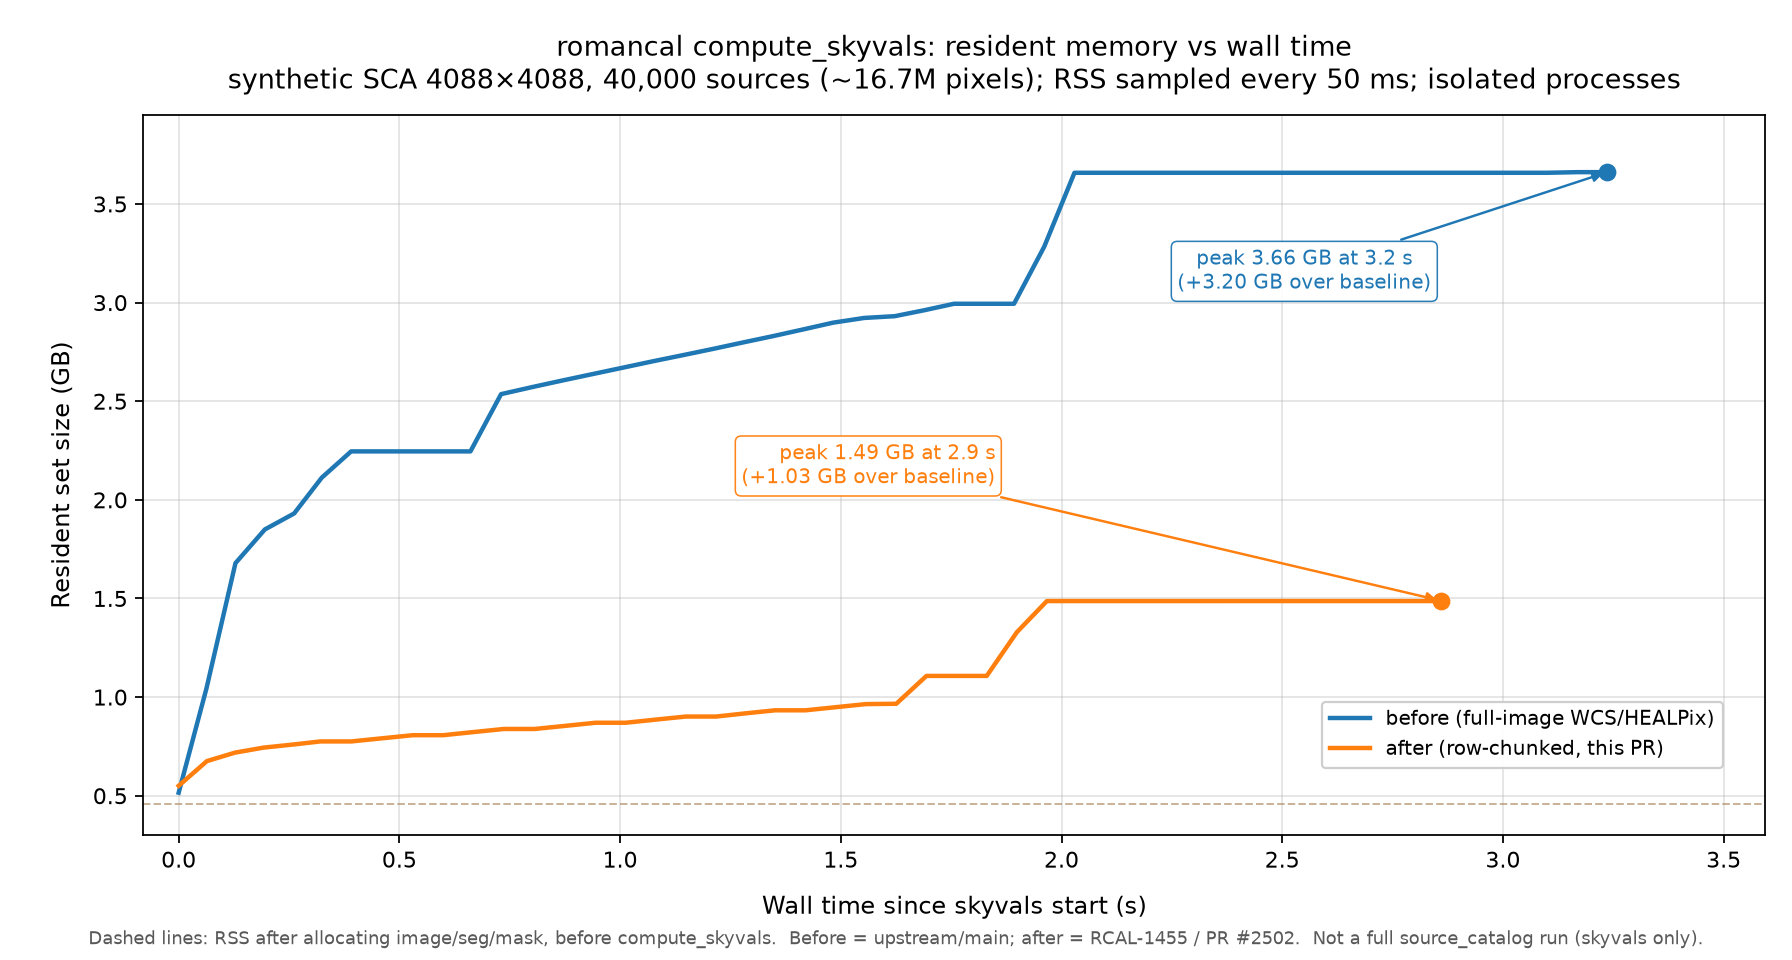
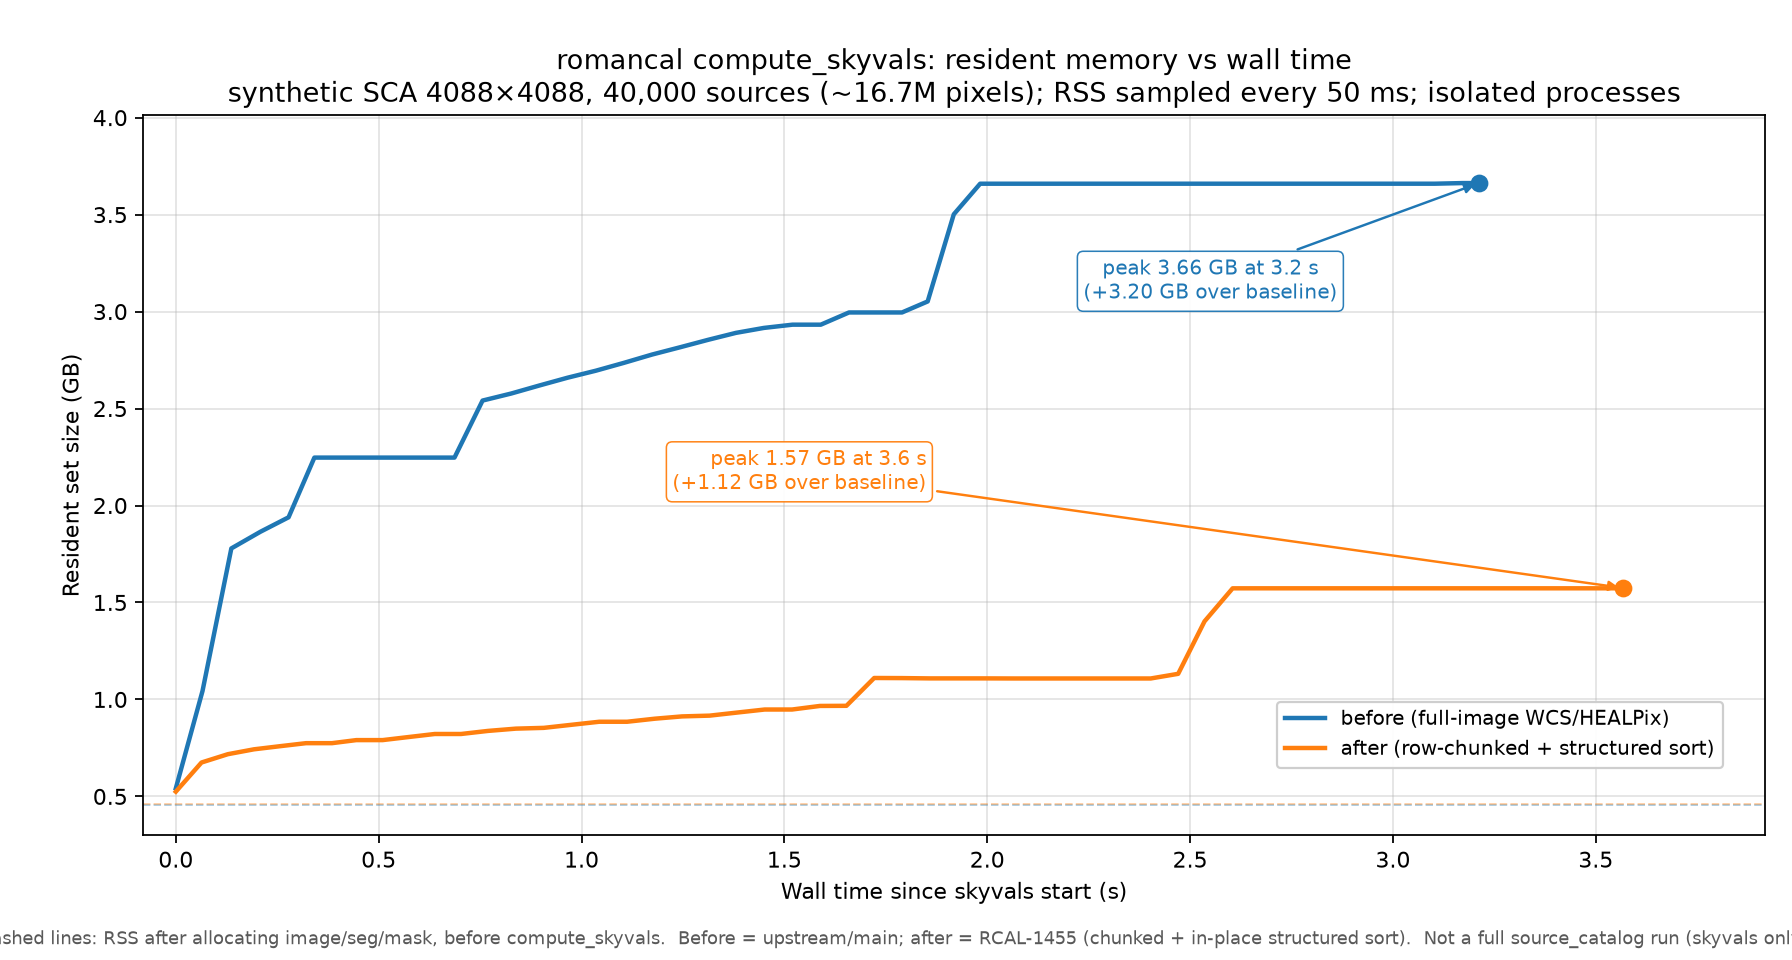
RCAL-1455: Address review on skyvals chunking API and tests
Add chunk_rows to compute_skyvals, drop monkeypatched skyvals tests in
favor of image_model fixtures, trim implementation comments, and tighten
the healpix sort/gather path. Refresh the local RSS profile figure.

diff --git a/romancal/source_catalog/tests/test_source_catalog.py b/romancal/source_catalog/tests/test_source_catalog.py
@@ -1,6 +1,5 @@
 from pathlib import Path
 from re import match
-from types import SimpleNamespace
 
 import asdf
 import astropy.units as u
@@ -750,55 +749,52 @@ def test_l2_segmentation_without_skyvals_when_disabled(image_model):
     assert "healpix11_cov" not in result_segmentation_map
 
 
-def test_skyvals_coverage_includes_source_pixels(monkeypatch):
+def test_skyvals_coverage_includes_source_pixels(image_model):
     """
-    Purpose: healpix11_cov must include source pixels, while sky medians
-    use only unsegmented sky pixels.
+    Purpose: sky medians exclude segmented source pixels, while healpix11_cov
+    still covers those pixels when they are unmasked.
     """
+    # Positive pixel_area so get_pixel_area_sr does not fall back to a WCS estimate.
+    image_model.meta.photometry.pixel_area = 1.0e-12
+    ny, nx = image_model.data.shape
+    image_model.data = np.full((ny, nx), 20.0, dtype=np.float32)
+    image_model.data[5, 5] = 999.0
+    image_model.err = np.ones((ny, nx), dtype=np.float32)
 
-    class WCS:
-        def pixel_to_world_values(self, x, y):
-            return np.asarray(x) * 180.0, np.asarray(y) * 0.0
+    segmentation = np.zeros((ny, nx), dtype=np.uint32)
+    segmentation[5, 5] = 1
+    bad_pixel_mask = np.zeros((ny, nx), dtype=bool)
 
-    input_model = SimpleNamespace(
-        data=np.array([[10.0, 20.0]], dtype=np.float32),
-        err=np.ones((1, 2), dtype=np.float32),
-        meta=SimpleNamespace(wcs=WCS()),
+    skyvals, healpix11_cov = compute_skyvals(
+        image_model, segmentation, bad_pixel_mask
     )
-    segmentation = np.array([[1, 0]], dtype=np.uint32)
-    bad_pixel_mask = np.zeros((1, 2), dtype=bool)
 
-    monkeypatch.setattr(
-        "romancal.source_catalog._skyvals.get_pixel_area_sr", lambda model: 1.0
+    assert skyvals.shape[0] > 0
+    # Source pixel value must not enter sky medians.
+    np.testing.assert_array_equal(skyvals["data"], 20.0)
+    assert healpix11_cov.shape[0] > 0
+
+    # Source-only footprint still contributes to healpix11_cov.
+    source_only_mask = np.ones((ny, nx), dtype=bool)
+    source_only_mask[5, 5] = False
+    _, healpix11_source = compute_skyvals(
+        image_model, segmentation, source_only_mask
     )
-    skyvals, healpix11_cov = compute_skyvals(input_model, segmentation, bad_pixel_mask)
-
-    assert skyvals.shape == (1,)
-    assert skyvals["data"][0] == 20.0
-    assert healpix11_cov.shape == (2,)
+    assert healpix11_source.shape[0] >= 1
+    assert np.all(np.isin(healpix11_source, healpix11_cov))
 
 
-def test_skyvals_empty_when_all_pixels_masked(monkeypatch):
+def test_skyvals_empty_when_all_pixels_masked(image_model):
     """
     Purpose: fully masked inputs return empty skyvals and healpix11_cov.
     """
+    image_model.meta.photometry.pixel_area = 1.0e-12
+    bad_pixel_mask = np.ones(image_model.data.shape, dtype=bool)
+    segmentation = np.zeros(image_model.data.shape, dtype=np.uint32)
 
-    class WCS:
-        def pixel_to_world_values(self, x, y):
-            raise AssertionError("WCS should not be called when nothing is usable")
-
-    input_model = SimpleNamespace(
-        data=np.ones((2, 2), dtype=np.float32),
-        err=np.ones((2, 2), dtype=np.float32),
-        meta=SimpleNamespace(wcs=WCS()),
+    skyvals, healpix11_cov = compute_skyvals(
+        image_model, segmentation, bad_pixel_mask
     )
-    segmentation = np.zeros((2, 2), dtype=np.uint32)
-    bad_pixel_mask = np.ones((2, 2), dtype=bool)
-
-    monkeypatch.setattr(
-        "romancal.source_catalog._skyvals.get_pixel_area_sr", lambda model: 1.0
-    )
-    skyvals, healpix11_cov = compute_skyvals(input_model, segmentation, bad_pixel_mask)
 
     assert skyvals.shape == (0,)
     assert skyvals.dtype == SKYVALS_DTYPE
@@ -806,51 +802,47 @@ def test_skyvals_empty_when_all_pixels_masked(monkeypatch):
     assert healpix11_cov.dtype == np.int64
 
 
-def test_skyvals_chunked_matches_single_pass(monkeypatch):
+def test_skyvals_chunked_matches_single_pass(image_model):
     """
-    Purpose: row-chunked WCS/HEALPix aggregation must match a single-chunk
-    pass so memory optimization does not change skyvals contents.
+    Purpose: row-chunked WCS/HEALPix aggregation matches a single-pass run so
+    chunking does not change skyvals contents.
     """
-
-    class WCS:
-        def pixel_to_world_values(self, x, y):
-            # Map pixel x to lon so neighboring columns land in distinct healpixels.
-            return np.asarray(x, dtype=float) * 0.01, np.asarray(y, dtype=float) * 0.0
-
+    image_model.meta.photometry.pixel_area = 1.0e-12
     rng = np.random.default_rng(0)
-    data = rng.normal(5.0, 1.0, size=(5, 8)).astype(np.float32)
-    err = np.full_like(data, 0.5)
-    segmentation = np.zeros(data.shape, dtype=np.uint32)
+    image_model.data = rng.normal(5.0, 1.0, size=image_model.data.shape).astype(
+        np.float32
+    )
+    image_model.err = np.full_like(image_model.data, 0.5, dtype=np.float32)
+
+    segmentation = np.zeros(image_model.data.shape, dtype=np.uint32)
     segmentation[1, 1] = 1
     segmentation[3, 4] = 2
-    bad_pixel_mask = np.zeros(data.shape, dtype=bool)
+    bad_pixel_mask = np.zeros(image_model.data.shape, dtype=bool)
     bad_pixel_mask[0, 0] = True
 
-    input_model = SimpleNamespace(
-        data=data,
-        err=err,
-        meta=SimpleNamespace(wcs=WCS()),
-    )
-    monkeypatch.setattr(
-        "romancal.source_catalog._skyvals.get_pixel_area_sr", lambda model: 1.0
-    )
-
-    monkeypatch.setattr("romancal.source_catalog._skyvals._SKYVALS_CHUNK_ROWS", 1)
     sky_chunked, hp11_chunked = compute_skyvals(
-        input_model, segmentation, bad_pixel_mask
+        image_model, segmentation, bad_pixel_mask, chunk_rows=1
     )
-
-    monkeypatch.setattr("romancal.source_catalog._skyvals._SKYVALS_CHUNK_ROWS", 1000)
-    sky_single, hp11_single = compute_skyvals(input_model, segmentation, bad_pixel_mask)
+    sky_single, hp11_single = compute_skyvals(
+        image_model, segmentation, bad_pixel_mask, chunk_rows=10_000
+    )
 
     assert sky_chunked.dtype == sky_single.dtype
     np.testing.assert_array_equal(sky_chunked["healpix17"], sky_single["healpix17"])
-    np.testing.assert_allclose(sky_chunked["data"], sky_single["data"], rtol=0, atol=0)
-    np.testing.assert_allclose(sky_chunked["err"], sky_single["err"], rtol=0, atol=0)
-    np.testing.assert_allclose(
-        sky_chunked["covfrac"], sky_single["covfrac"], rtol=0, atol=0
-    )
+    np.testing.assert_array_equal(sky_chunked["data"], sky_single["data"])
+    np.testing.assert_array_equal(sky_chunked["err"], sky_single["err"])
+    np.testing.assert_array_equal(sky_chunked["covfrac"], sky_single["covfrac"])
     np.testing.assert_array_equal(np.sort(hp11_chunked), np.sort(hp11_single))
+
+
+def test_skyvals_rejects_invalid_chunk_rows(image_model):
+    """
+    Purpose: chunk_rows must be a positive integer.
+    """
+    segmentation = np.zeros(image_model.data.shape, dtype=np.uint32)
+    bad_pixel_mask = np.zeros(image_model.data.shape, dtype=bool)
+    with pytest.raises(ValueError, match="chunk_rows must be >= 1"):
+        compute_skyvals(image_model, segmentation, bad_pixel_mask, chunk_rows=0)
 
 
 def test_l2_skyvals_values_and_covfrac_reasonable(image_model):

diff --git a/romancal/source_catalog/_skyvals.py b/romancal/source_catalog/_skyvals.py
@@ -14,12 +14,8 @@ log = logging.getLogger(__name__)
 
 HEALPIX17_NSIDE = 2**17
 HEALPIX11_DIVISOR = 4**6
-# Internal row-chunk size for WCS/HEALPix conversion. Full-image conversion of
-# a Roman SCA (~16M pixels) peaks several GB above baseline. 256 rows on a
-# ~4k-wide detector is ~1M pixels/chunk: small enough to cap temporary RA/Dec
-# and healpix arrays, large enough to avoid excessive Python loop overhead.
-# Not a user-facing knob; tune only if re-profiling on realistic L2 images.
-_SKYVALS_CHUNK_ROWS = 256
+# Default row-chunk size for WCS/HEALPix conversion (~1M pixels on a 4k-wide SCA).
+_DEFAULT_CHUNK_ROWS = 256
 SKYVALS_DTYPE = np.dtype(
     [
         ("healpix17", np.int64),
@@ -30,12 +26,12 @@ SKYVALS_DTYPE = np.dtype(
 )
 
 
-def compute_skyvals(input_model, segmentation, bad_pixel_mask):
+def compute_skyvals(input_model, segmentation, bad_pixel_mask, chunk_rows=_DEFAULT_CHUNK_ROWS):
     """
     Compute HEALPix-aggregated sky statistics from masked image pixels.
 
-    Image coordinates are converted to HEALPix in row chunks (see
-    ``_SKYVALS_CHUNK_ROWS``) so peak memory stays bounded on full SCA images.
+    Coordinates are converted to HEALPix in row chunks of ``chunk_rows`` to
+    bound temporary WCS/HEALPix arrays on large images.
 
     Parameters
     ----------
@@ -45,6 +41,9 @@ def compute_skyvals(input_model, segmentation, bad_pixel_mask):
         2D segmentation labels; source pixels are non-zero.
     bad_pixel_mask : np.ndarray
         Boolean 2D mask where True means "exclude pixel from sky calculation".
+    chunk_rows : int, optional
+        Number of image rows to convert through WCS/HEALPix at a time.
+        Must be >= 1. Default is 256.
 
     Returns
     -------
@@ -58,6 +57,9 @@ def compute_skyvals(input_model, segmentation, bad_pixel_mask):
         contain at least one pixel not rejected by the bad-pixel mask,
         regardless of its segmentation label.
     """
+    if chunk_rows < 1:
+        raise ValueError(f"chunk_rows must be >= 1, got {chunk_rows}")
+
     data = input_model.data
     err = input_model.err
     wcs = input_model.meta.wcs
@@ -72,18 +74,15 @@ def compute_skyvals(input_model, segmentation, bad_pixel_mask):
         )
         return np.empty((0,), dtype=SKYVALS_DTYPE), np.empty((0,), dtype=np.int64)
 
-    # Valid sky pixels are those not rejected by upstream masks and not part
-    # of detected sources.
+    # Valid sky pixels: unmasked and not part of a detected source.
     valid = coverage & (segmentation == 0)
     if not np.any(valid):
-        # Fallback: if every source-masked pixel is rejected, use all unmasked
-        # pixels so we still produce per-exposure sky estimates.
+        # If every unmasked pixel is in a source, fall back to all unmasked
+        # pixels so per-exposure sky estimates are still produced.
         valid = coverage
 
     ny = data.shape[0]
     n_sky = int(np.count_nonzero(valid))
-    # Preallocate flat sky-pixel buffers. Peak memory is dominated by these
-    # plus per-chunk WCS temporaries, not by a second full-image copy of RA/Dec.
     healpix17 = np.empty(n_sky, dtype=np.int64)
     vals_data = np.empty(n_sky, dtype=np.float32)
     vals_err = np.empty(n_sky, dtype=np.float32)
@@ -92,8 +91,8 @@ def compute_skyvals(input_model, segmentation, bad_pixel_mask):
 
     healpix = HEALPix(nside=HEALPIX17_NSIDE, order="nested", frame="icrs")
 
-    for y0 in range(0, ny, _SKYVALS_CHUNK_ROWS):
-        y1 = min(y0 + _SKYVALS_CHUNK_ROWS, ny)
+    for y0 in range(0, ny, chunk_rows):
+        y1 = min(y0 + chunk_rows, ny)
         cov_rows = coverage[y0:y1]
         if not np.any(cov_rows):
             continue
@@ -101,7 +100,6 @@ def compute_skyvals(input_model, segmentation, bad_pixel_mask):
         yy_local, xx = np.nonzero(cov_rows)
         yy = yy_local + y0
 
-        # Convert this row chunk only — full-image WCS was the main memory spike.
         ra, dec = wcs.pixel_to_world_values(xx, yy)
         chunk_healpix17 = np.asarray(
             healpix.lonlat_to_healpix(ra * u.deg, dec * u.deg),
@@ -113,16 +111,13 @@ def compute_skyvals(input_model, segmentation, bad_pixel_mask):
         if np.any(is_sky_pixel):
             n = int(np.count_nonzero(is_sky_pixel))
             sl = slice(n_filled, n_filled + n)
-            healpix17[sl] = chunk_healpix17[is_sky_pixel]
             yy_sky = yy[is_sky_pixel]
             xx_sky = xx[is_sky_pixel]
+            healpix17[sl] = chunk_healpix17[is_sky_pixel]
             vals_data[sl] = data[yy_sky, xx_sky]
             vals_err[sl] = err[yy_sky, xx_sky]
             n_filled += n
 
-    # n_sky counts valid sky pixels over the full image; the loop above walks
-    # every coverage row and fills exactly those pixels. Mismatch means the
-    # masks or chunking logic is inconsistent.
     if n_filled != n_sky:
         raise RuntimeError(
             f"skyvals fill count mismatch: filled {n_filled} sky pixels, "
@@ -134,28 +129,28 @@ def compute_skyvals(input_model, segmentation, bad_pixel_mask):
     else:
         healpix11_cov = np.empty((0,), dtype=np.int64)
 
-    # Sort/group by healpixel so per-healpixel reductions are contiguous.
-    order = np.argsort(healpix17)
-    hp_sorted = healpix17[order]
-    data_sorted = vals_data[order]
-    err_sorted = vals_err[order]
-    del healpix17, vals_data, vals_err, order
-
+    # argsort once, then gather values into healpix order. Avoids keeping both
+    # unsorted and fully duplicated sorted buffers longer than needed.
+    order = np.argsort(healpix17, kind="mergesort")
+    hp_sorted = np.take(healpix17, order)
+    del healpix17
     unique_hp, starts, counts = np.unique(
         hp_sorted, return_index=True, return_counts=True
     )
+    del hp_sorted
+
+    vals_data = np.take(vals_data, order)
+    vals_err = np.take(vals_err, order)
+    del order
 
     med_data = np.empty(unique_hp.size, dtype=np.float32)
     med_err = np.empty(unique_hp.size, dtype=np.float32)
-    # Pixels entering this path are already finite (bad_pixel_mask excludes
-    # non-finite data/err), so plain median is sufficient and cheaper than
-    # nanmedian.
+    # bad_pixel_mask already excludes non-finite data/err.
     for i, (start, count) in enumerate(zip(starts, counts, strict=True)):
         section = slice(start, start + count)
-        med_data[i] = np.median(data_sorted[section])
-        med_err[i] = np.median(err_sorted[section])
+        med_data[i] = np.median(vals_data[section])
+        med_err[i] = np.median(vals_err[section])
 
-    # Normalize contributing-pixel counts to fractional HEALPix coverage.
     healpix_area_sr = 4.0 * np.pi / (12.0 * HEALPIX17_NSIDE * HEALPIX17_NSIDE)
     expected_pixels = healpix_area_sr / pixel_area_sr
     covfrac = np.clip(counts.astype(np.float64) / expected_pixels, 0.0, 1.0).astype(
